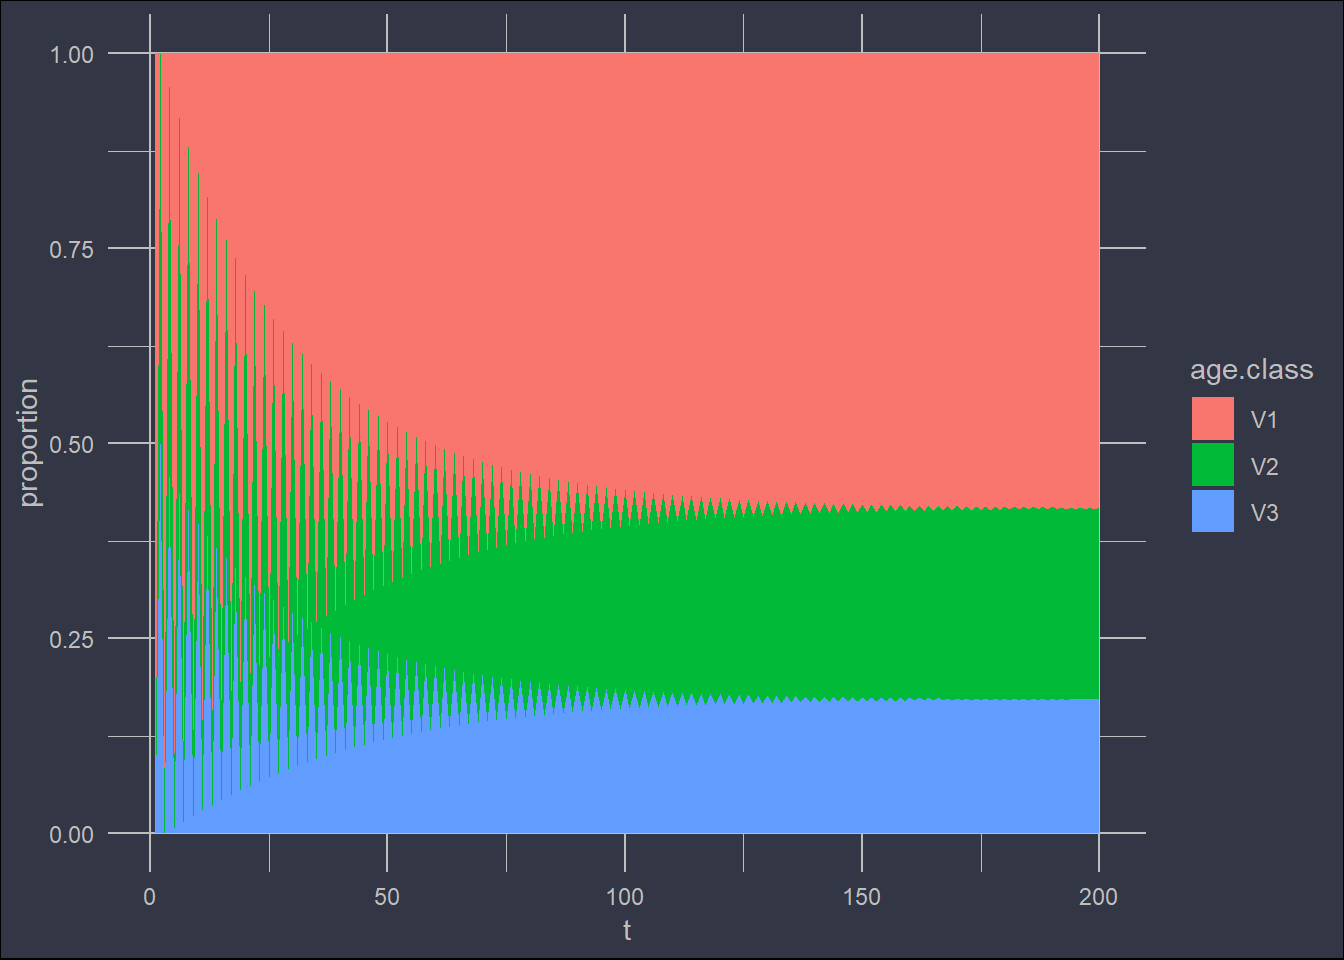
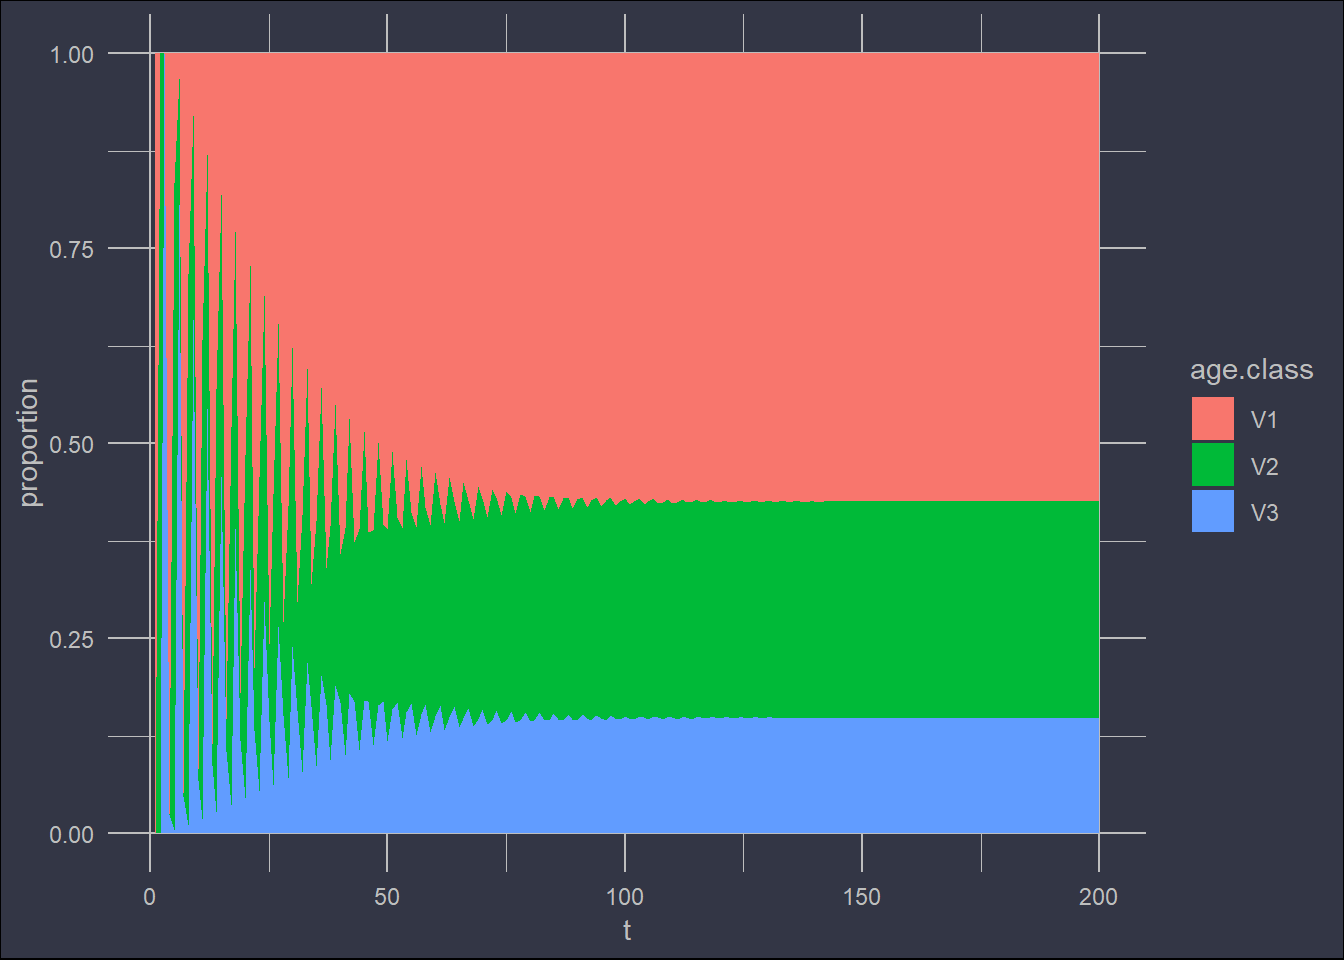
minor tweaks to about

Changed region(s): [[0.0938, 0.125, 0.8438, 0.875]]

diff --git a/content/post/2018-11-06-population-growth-modelling.html b/content/post/2018-11-06-population-growth-modelling.html
@@ -1,11 +1,11 @@
 ---
-title: Deriving simple population growth functions
+title: Unconstrained population growth
 author: James Maino
 date: '2018-11-06'
 slug: population-growth-modelling
 categories: []
-tags: ["ecology", "population", "exponential", "logistic", "derivation"]
-summary: "A quick note on deriving some useful functions for unconstrained and constrained populations growth."
+tags: ["ecology", "population", "exponential", "derivation", "stable age distribution", "matrix model"]
+summary: "A quick note on unconstrained populations growth (exponential growth)."
 header:
   caption: 'Image credit: [**James Maino**] (https://scholar.google.com.au/citations?user=jHD4R20AAAAJ&hl=en)'
   image: '20170902_130200.jpg'
@@ -24,18 +24,18 @@ header:
 <p><span class="math display">\[N = N_0 e^{rt}\]</span></p>
 <p>While the parameter <span class="math inline">\(r\)</span> hopefully makes conceptual sense, it is not straightforward to measure for a given species, as it will depend on the age structure (all juveniles means no reproduction), resource availability (food for growth), and environmental temperature (slow cold ectotherms). The age structure is assumed to be in a steady state, i.e. the relative proportion of different age classes does not change. Likewise, resource availability and other environmental conditions such as temperature are also taken as fixed. Steady state can be illustrated with a simple transition matrix model. Although there are initially 1000 individuals in the first age class (e.g. a mass hatching event triggered by rain), the age classes eventually stabilise.</p>
 <pre class="r"><code>trans = matrix(
-  c(0.0, 0.3, 0.3,
-    0.3, 0.3, 0.0,
-    3.0, 0.0, 0.0),
+  c(0.00, 0.50, 0.00,
+    0.00, 0.00, 0.50,
+    4.00, 0.00, 0.10),
   ncol = 3,byrow = T
   )
 rownames(trans) = c(&#39;V1&#39;,&#39;V2&#39;,&#39;V3&#39;)
 colnames(trans) = c(&#39;V1&#39;,&#39;V2&#39;,&#39;V3&#39;)
 trans</code></pre>
-<pre><code>##     V1  V2  V3
-## V1 0.0 0.3 0.3
-## V2 0.3 0.3 0.0
-## V3 3.0 0.0 0.0</code></pre>
+<pre><code>##    V1  V2  V3
+## V1  0 0.5 0.0
+## V2  0 0.0 0.5
+## V3  4 0.0 0.1</code></pre>
 <pre class="r"><code>Tmax = 200
 N = matrix(rep(0, Tmax*3), nrow = 3)
 N[1,1] = 1000
@@ -65,52 +65,52 @@ knitr::kable(df[seq(0,200, by = 20),],digits = 0, align = c(&#39;r&#39;,&#39;r&#
 <tr class="odd">
 <td>20</td>
 <td align="right">19</td>
-<td align="right">913</td>
+<td align="right">1177</td>
 </tr>
 <tr class="even">
 <td>40</td>
 <td align="right">39</td>
-<td align="right">1302</td>
+<td align="right">2137</td>
 </tr>
 <tr class="odd">
 <td>60</td>
 <td align="right">59</td>
-<td align="right">1787</td>
+<td align="right">4041</td>
 </tr>
 <tr class="even">
 <td>80</td>
 <td align="right">79</td>
-<td align="right">2405</td>
+<td align="right">8262</td>
 </tr>
 <tr class="odd">
 <td>100</td>
 <td align="right">99</td>
-<td align="right">3204</td>
+<td align="right">15973</td>
 </tr>
 <tr class="even">
 <td>120</td>
 <td align="right">119</td>
-<td align="right">4245</td>
+<td align="right">31683</td>
 </tr>
 <tr class="odd">
 <td>140</td>
 <td align="right">139</td>
-<td align="right">5607</td>
+<td align="right">62267</td>
 </tr>
 <tr class="even">
 <td>160</td>
 <td align="right">159</td>
-<td align="right">7392</td>
+<td align="right">122686</td>
 </tr>
 <tr class="odd">
 <td>180</td>
 <td align="right">179</td>
-<td align="right">9738</td>
+<td align="right">241627</td>
 </tr>
 <tr class="even">
 <td>200</td>
 <td align="right">199</td>
-<td align="right">12821</td>
+<td align="right">475851</td>
 </tr>
 </tbody>
 </table>
@@ -119,9 +119,9 @@ knitr::kable(df[seq(0,200, by = 20),],digits = 0, align = c(&#39;r&#39;,&#39;r&#
 <pre class="r"><code>lm1 = lm(log(N) ~ t , data = df)
 coef(lm1)</code></pre>
 <pre><code>## (Intercept)           t 
-##  6.71771143  0.01380229</code></pre>
+##  6.30299077  0.03407767</code></pre>
 <p><img src="/post/2018-11-06-population-growth-modelling_files/figure-html/unnamed-chunk-6-1.png" width="672" /></p>
-<p>Notice that the recovered intercept <span class="math inline">\(e^{6.72} = 828.8\)</span> was actually lower than the real values of 1000. This was due to the age distribution not being in steady state, and the population not growing properly exponential.</p>
+<p>Notice that the recovered intercept <code>exp(coef(lm1)[1]) =</code> 546 was actually lower than the real values of 1000. This was due to the age distribution not being in steady state, and the population not growing properly exponential.</p>
 <p>Now let’s try and run the same matrix model simulation but with the 1000 individuals distributed across age classes at the steady state proportions.</p>
 <pre class="r"><code>N1_stable = 1000*N[,Tmax]/sum(N[,Tmax])
 N = matrix(rep(0, Tmax*3), nrow = 3)
@@ -137,11 +137,11 @@ df = data.frame(
 lm1 = lm(log(N) ~ t , data = df)
 coef(lm1)</code></pre>
 <pre><code>## (Intercept)           t 
-##  6.90853613  0.01372243</code></pre>
+##  6.90777973  0.03388836</code></pre>
 <p>After exponentiating the intercept we are able to recover the initial population size.</p>
 <pre class="r"><code>exp(coef(lm1)[1])</code></pre>
 <pre><code>## (Intercept) 
-##    1000.781</code></pre>
+##    1000.024</code></pre>
 </div>
 <div id="measuring-vital-rates-and-building-a-life-table" class="section level3">
 <h3>Measuring vital rates and building a life table</h3>

diff --git a/content/post/2018-11-06-logistic-population-growth.html b/content/post/2018-11-06-logistic-population-growth.html
@@ -1,5 +1,5 @@
 ---
-title: Deriving logistic population growth functions
+title: Modelling density dependent population growth (logistic growth)
 author: James Maino
 date: '2018-11-06'
 slug: logistic-growth-modelling
@@ -19,7 +19,8 @@ header:
 <p>In a previous post we derived a function for population growth based on the vital rates of reproduction and mortality. We assumed that the growth rate was constant with respect to the number of individuals in the population or <span class="math inline">\(\frac{dt}{dN} = rN\)</span>. This led to the unrealistic prediction that populations will grow indefinitely. Of course, populations will eventually run into resource problems (e.g. no food) or other density dependent issues (e.g. over-crowding and disease).</p>
 <p>One way to set un upper limit on population growth is to scale the growth rate <span class="math inline">\(rN\)</span> by a function that is 1 when <span class="math inline">\(N\)</span> is small and 0 when <span class="math inline">\(N\)</span> is big. Here is one such function:</p>
 <p><span class="math inline">\(\frac{dN}{dt} = (1 - N/K)rN\)</span></p>
-<p>When <span class="math inline">\(N\)</span> is small the growth rate is approximately <span class="math inline">\(rN\)</span> but as <span class="math inline">\(N \to K\)</span> the growth rate scales to zero. Thus <span class="math inline">\(K\)</span> can be thought of as the carrying capacity of the population. Before we solve this equation with maths (analytically), let’s solve it using computers (numerically) for <span class="math inline">\(r=0.3\)</span>, and <span class="math inline">\(K=100\)</span> assuming the population started with just 2 individuals.</p>
+<p>When <span class="math inline">\(N\)</span> is small the growth rate is approximately <span class="math inline">\(rN\)</span> but as <span class="math inline">\(N \to K\)</span> the growth rate scales to zero. Thus <span class="math inline">\(K\)</span> can be thought of as the carrying capacity of the population. It is important to note that unlike the equation for unconstrained exponential growth, this is a function of convenience rather than having mechanistic interpretation based on how reproduction or mortality depend on population density - it is the simplest function that satisfies our requirements for density dependent growth.</p>
+<p>Before we solve this equation with maths (analytically), let’s solve it using computers (numerically) for <span class="math inline">\(r=0.3\)</span>, and <span class="math inline">\(K=100\)</span> assuming the population started with just 2 individuals.</p>
 <pre class="r"><code>library(deSolve)
 
 parameters &lt;- c(r = 0.3, K = 100)

diff --git a/content/home/about.md b/content/home/about.md
@@ -10,6 +10,7 @@ weight = 5
 # List your academic interests.
 [interests]
   interests = [
+    "Ecology and evolution",
     "Sustainable agriculture",
     "Pest forecasting",
     "Spatial data analysis"
@@ -36,6 +37,6 @@ weight = 5
 
 # Biography
 
-I research and develops tools that help us better manage some of our most notorious crop pests. I am passionate about food security, environmental sustainability, and biodiversity preservation. My current role at cesar as a Senior Research Scientist provides me a unique opportunity to apply my interests and expertise at the interface of these pressing issues.
+I develop tools to remotely sense and forecast insect population dynamics (with a focus on agricultural pests). I am passionate about sustainable food systems, and biodiversity preservation. I believe enhancing our ability to sense and forecast arthopod populations will help us to both manage pests and improve the situation for those species in decline. 
 
 In my spare time, I enjoy hiking around Australia’s wide and diverse landscapes, while taking note of the smaller natural wonders that lurk underneath my feet. 

diff --git a/content/project/RLEM-resistance.md b/content/project/RLEM-resistance.md
@@ -11,7 +11,7 @@ tags = ["RLEM-resistance"]
 summary = "Pest mites are a significant threat to the establishment of grain crops. Some species have become more problematic over the last decade as farming practices have changed, while others are proving difficult to control due to tolerance and insecticide resistance issues. The recent emergence of resistance to synthetic pyrethroids and organophosphates in the redlegged earth mite (RLEM) is of particular concern to the Australian grains industry."
 
 # Optional image to display on homepage.
-image_preview = "static/img/20171008_181138.jpg"
+image_preview = "20171008_181138.jpg"
 
 # Optional external URL for project (replaces project detail page).
 external_link = ""
